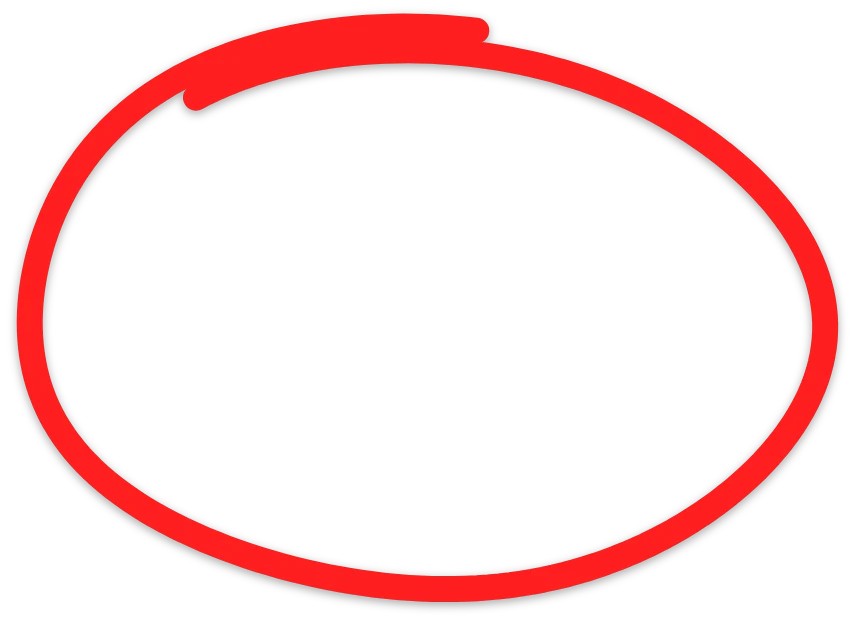
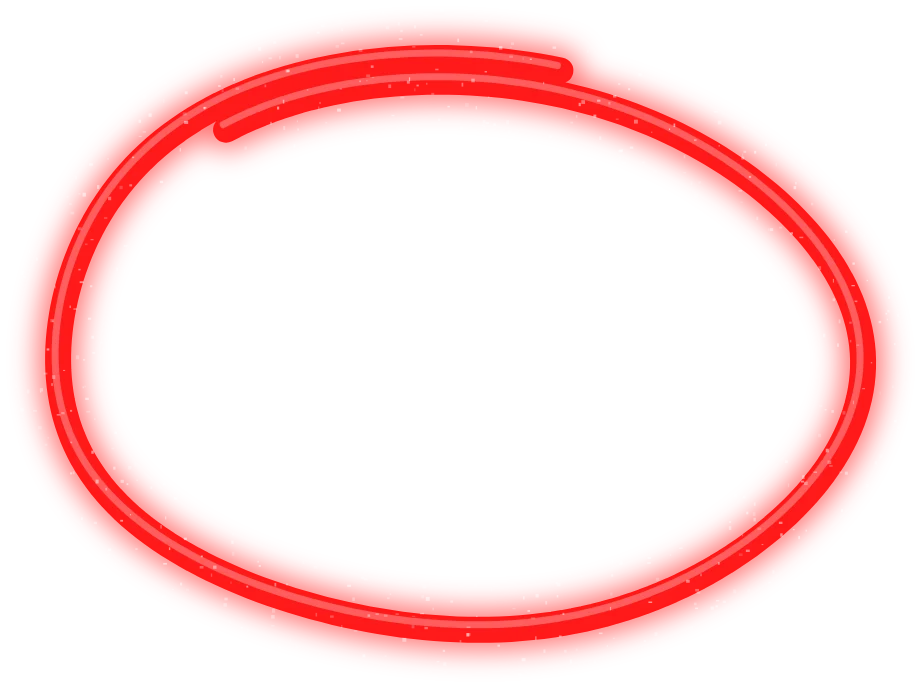
Meme maker: better stickers
Green laser eyes next to the red ones, a lens flare, a glowing halo,
devil horns, lightning and anime speed lines. The circle, arrow, charts
and anger mark are redrawn with real glow and shine. The text stamps
and the plain sparkle are gone.

Claude-Session: https://claude.ai/code/session_01Ac42gT9Fg4MqsVNPPdFv9h

Changed region(s): [[0.0, 0.0, 1.0, 0.9791]]

diff --git a/assets/js/meme.js b/assets/js/meme.js
@@ -43,9 +43,11 @@
   ];
   // Sizes are a share of the picture's short side, so a sticker is the same
   // size whatever shape the picture is.
-  // Laser eyes, drawn here rather than fetched: a red glow with a white hot
+  // Laser eyes, drawn here rather than fetched: a glow with a white hot
   // middle and a beam out to the right. One per eye; Copy makes the second.
-  function laserEye() {
+  // Red is the classic; green is the bullish one.
+  function laserEye(rgb, tint) {
+    const c0 = 'rgba(' + rgb + ', ';
     const c = document.createElement('canvas');
     c.width = 1024;
     c.height = 440;
@@ -53,9 +55,9 @@
     const cy = 220;
     const ex = 220;
     const beam = x.createLinearGradient(ex, 0, 1024, 0);
-    beam.addColorStop(0, 'rgba(255, 40, 30, 0.95)');
-    beam.addColorStop(0.55, 'rgba(255, 40, 30, 0.5)');
-    beam.addColorStop(1, 'rgba(255, 40, 30, 0)');
+    beam.addColorStop(0, c0 + '0.95)');
+    beam.addColorStop(0.55, c0 + '0.5)');
+    beam.addColorStop(1, c0 + '0)');
     x.fillStyle = beam;
     x.beginPath();
     x.moveTo(ex, cy - 44);
@@ -77,28 +79,30 @@
     x.fill();
     const glow = x.createRadialGradient(ex, cy, 0, ex, cy, 215);
     glow.addColorStop(0, 'rgba(255, 255, 255, 1)');
-    glow.addColorStop(0.17, 'rgba(255, 236, 226, 1)');
-    glow.addColorStop(0.34, 'rgba(255, 46, 36, 1)');
-    glow.addColorStop(0.65, 'rgba(255, 20, 20, 0.42)');
-    glow.addColorStop(1, 'rgba(255, 0, 0, 0)');
+    glow.addColorStop(0.17, 'rgba(' + tint + ', 1)');
+    glow.addColorStop(0.34, c0 + '1)');
+    glow.addColorStop(0.65, c0 + '0.42)');
+    glow.addColorStop(1, c0 + '0)');
     x.fillStyle = glow;
     x.fillRect(0, 0, 440, 440);
     try { return c.toDataURL('image/png'); } catch (e) { return ''; }
   }
-  const LASER = laserEye();
+  const LASER = laserEye('255, 40, 30', '255, 236, 226');
+  const LASER_GREEN = laserEye('40, 255, 90', '226, 255, 232');
   const STICKERS = [
     ...(LASER ? [{ id: 'laser', src: LASER, size: 0.55 }] : []),
+    ...(LASER_GREEN ? [{ id: 'laser-green', src: LASER_GREEN, size: 0.55 }] : []),
     // When one is added here, the row count held open for the stickers in
     // meme.css (#meme-stickers, --rows) may need to go up.
     ...[
-      ['dwi', 0.45],
+      ['dwi', 0.45], ['flare', 0.5],
       // Him, cut out.
       ['head-shocked', 0.34], ['head-grin', 0.34], ['thumbs', 0.5],
-      // The usual meme marks: the circle and arrow that point at something,
-      // the chart going up or down, rubber stamps, and the anime ones.
+      // Glowing ones to put on him, the anime lines to put round him, and
+      // the circle, arrow and charts that point at something.
+      ['halo', 0.4], ['horns', 0.42], ['lightning', 0.4], ['speedlines', 1],
       ['circle', 0.5], ['arrow', 0.45], ['stonks', 0.45], ['crash', 0.45],
-      ['stamp-wagmi', 0.45], ['stamp-ngmi', 0.4], ['stamp-rekt', 0.4], ['stamp-send', 0.45],
-      ['bubble', 0.6], ['sparkle', 0.25], ['vein', 0.2], ['sweat', 0.14], ['nose', 0.12],
+      ['bubble', 0.6], ['vein', 0.2], ['sweat', 0.14], ['nose', 0.12],
     ].map(([id, size]) => ({ id, src: 'assets/img/meme/stickers/' + id + '.webp', size })),
     { id: 'can', src: 'assets/img/can.png', size: 0.36 },
     { id: 'syringe', src: 'assets/img/syringe.png', size: 0.26 },

diff --git a/meme.html b/meme.html
@@ -33,7 +33,7 @@
 <link rel="preload" href="assets/fonts/inter-800.woff2" as="font" type="font/woff2" crossorigin>
 <link rel="stylesheet" href="assets/css/style.css?v=96" />
 <link rel="stylesheet" href="assets/css/game-common.css?v=16" />
-<link rel="stylesheet" href="assets/css/meme.css?v=21" />
+<link rel="stylesheet" href="assets/css/meme.css?v=22" />
 <!-- Visits, counted without cookies, at Cloudflare Web Analytics.
      Numbers in the Cloudflare dashboard under Web Analytics. -->
 <script type="module" src="https://static.cloudflareinsights.com/beacon.min.js" data-cf-beacon='{"token": "c8d8b5fd6eee4cd3bafa930eb2a67f41"}'></script>
@@ -295,6 +295,6 @@
 
 <script src="assets/js/main.js?v=64"></script>
 <script src="assets/js/wallet.js?v=7"></script>
-<script src="assets/js/meme.js?v=32"></script>
+<script src="assets/js/meme.js?v=33"></script>
 </body>
 </html>

diff --git a/assets/css/meme.css b/assets/css/meme.css
@@ -380,7 +380,7 @@
 /* Built by meme.js as well, so held open the same way: square buttons,
    four across, --rows of them. */
 .meme-block-stick { container-type: inline-size; }
-#meme-stickers { --rows: 6; }
+#meme-stickers { --rows: 7; }
 #meme-stickers:empty { min-height: calc(var(--rows) * (100cqw - 30px) / 4 + (var(--rows) - 1) * 10px); }
 #meme-emoji:empty { min-height: calc(2 * (100cqw - 40px) / 6 + 8px); }
 .meme-stick img.is-round { border-radius: 50%; box-shadow: 0 0 0 2px #ffc632; }
